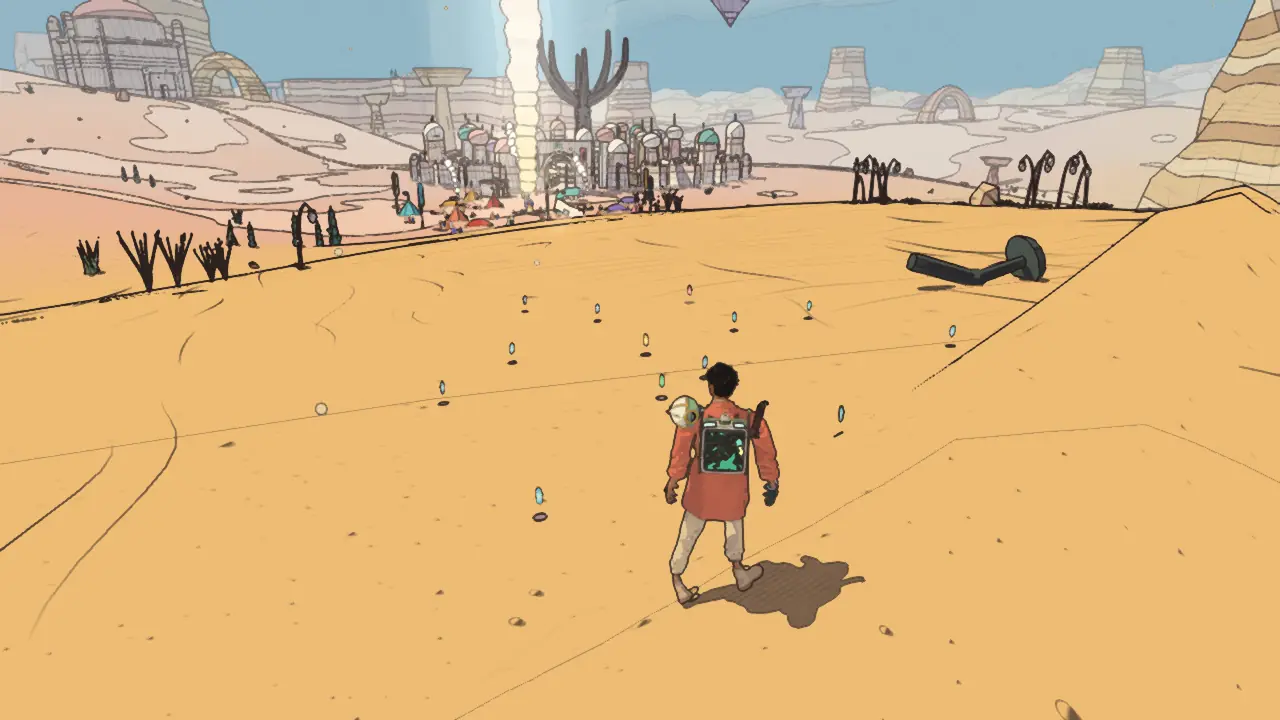
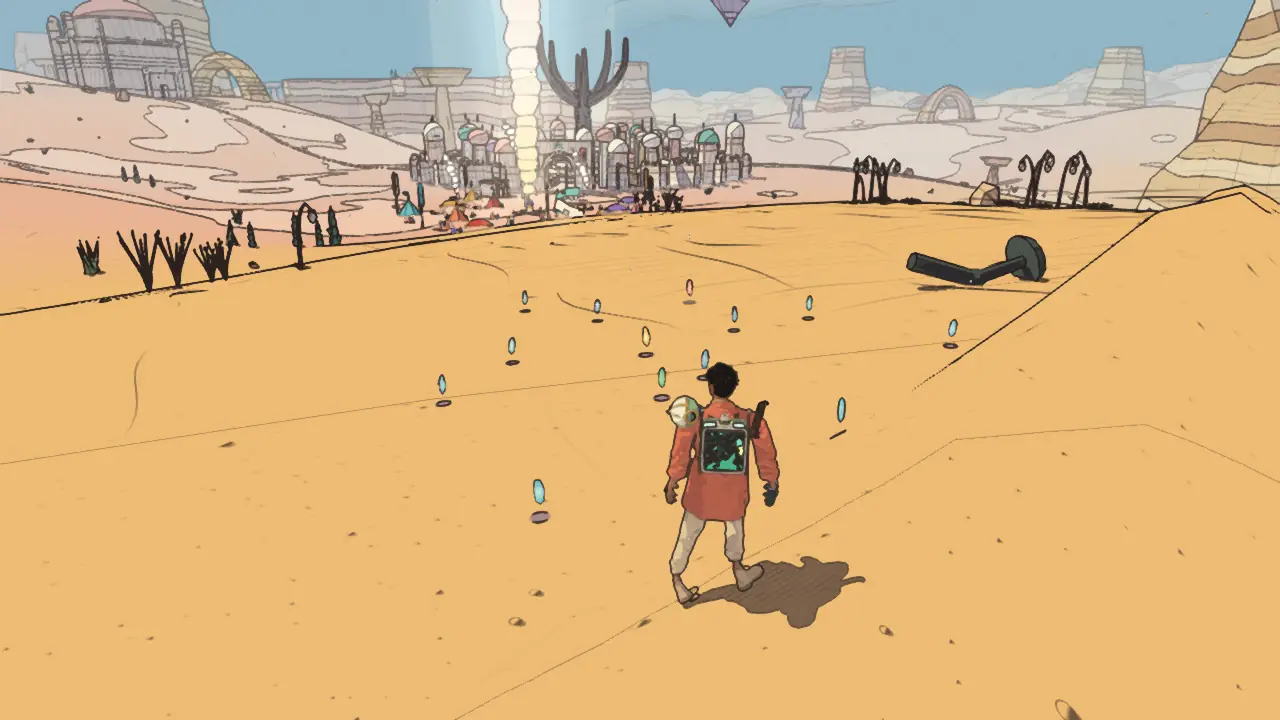
v1.11 changelog pictures: the sword between cuts retaken without the tongue (only the bead in the cup), the chime afters retaken knee-high (field, close, pull, the six worths, the reference side by side)

diff --git a/src/changelog-media.js b/src/changelog-media.js
@@ -476,17 +476,17 @@ export const CHANGELOG_MEDIA = {
     ], see: 'Go aboard your ship and stand at the back of the main room, by the lockers: the cockpit straight ahead, the galley on the left, the holo table and its curved console in the middle, the bunk’s arched alcove on the right. Debug → Cinematics → Recording 1 plays a recording at the console’s end.' },
     // the chimes, redrawn
     { match: 'Chimes have a new look: each is a long, blunt crystal', shots: [
-      { name: 'chimes-look-field', caption: 'A scatter of chimes on the desert’s sand from behind the traveller, at play distance: before, 27.5 cm shards leaning well over, the drops of five and more as ones and pale clusters, a dark smudge under each; after, smaller crystals floating upright, lower, each over a small lavender shadow, a jade five, an amber ten and a coral twenty among the cyan ones', commit: '36ec0024',
+      { name: 'chimes-look-field', caption: 'A scatter of chimes on the desert’s sand from behind the traveller, at play distance: before, 27.5 cm shards leaning well over, the drops of five and more as ones and pale clusters, a dark smudge under each; after, knee-high crystals (a one 30 cm long) floating upright, lower, each over a small lavender shadow, a jade five, an amber ten and a coral twenty among the cyan ones', commit: '612e9602', before: '87f6f105',
         view: { level: 'desert', player: CHIME_P, heading: CHIME_H, eye: chimeEye(4.6, 3.3, 0.9), target: CHIME_TGT(7.5, -0.6), fov: 50, save: SAVE_ON, wait: 2500, setup: CHIME_SAND(CHIME_FIELD_DROPS) } },
-      { name: 'chimes-look-close', caption: 'Three ones close up: before, broad leaning six-sided shards with chisel ends, high over a brown smudge; after, the reference’s long blunt crystal, broad uneven facets, a flat little cap, a blunt point, the lavender seam and the warm heart, upright and lower over a small lavender shadow', commit: '36ec0024',
+      { name: 'chimes-look-close', caption: 'Three ones close up: before, broad leaning six-sided shards with chisel ends, high over a brown smudge; after, the reference’s long blunt crystal, broad uneven facets, a flat little cap, a blunt point, the lavender seam and the warm heart, upright and lower over a small lavender shadow', commit: '612e9602', before: '87f6f105',
         view: { level: 'desert', player: chimeAway, heading: CHIME_H, save: SAVE_ON, wait: 2500, setup: CHIME_SAND([[...chimeAt(4, 0), 3]], CHIME_ROW(4.2, -0.32, 1.25, 0.14)) } },
-      { name: 'chimes-look-pull', caption: 'The nearest drawn in (held mid-flight): before, it shoots straight in, spinning fast; after, it drifts in on a curve, glowing, a trail of little lights behind it', commit: '36ec0024',
+      { name: 'chimes-look-pull', caption: 'The nearest drawn in (held mid-flight): before, it shoots straight in, spinning fast; after, it drifts in on a curve, glowing, a trail of little lights behind it', commit: '612e9602', before: '87f6f105',
         view: { level: 'desert', player: CHIME_P, heading: CHIME_H, eye: chimeEye(2.6, 1.9, 1.4), target: CHIME_TGT(1.6, 0.5), fov: 50, save: SAVE_ON, wait: 300,
           setup: CHIME_SAND([[...chimeAt(4.5, 1.5), 1], [...chimeAt(5.5, -1), 1]], `await wait(2500); { const p = chimes.list[0], [x, z] = ${JSON.stringify(chimeAt(1.3, 1.0))}; p.to.set(x, physics.groundAt(x, 60, z, 120), z); }
             await wait(300); who = player.pos; const t0 = performance.now();
             while (!chimes.list.some((q) => q.phase === 'pull' && q.pos.distanceTo(q.to.clone().setY(q.to.y + q.lift)) > 0.4) && performance.now() - t0 < 3000) await wait(2);
             frozen = true;`) } },
-      { name: 'chimes-look-reference', only: 'after', caption: 'The author’s pick (left, references/Core Objects/Currency/Floating Chime/field/sheet-1.jpg) beside the game after the change (right), from behind the traveller at play distance: the same upright crystals over small lavender shadows, a few of other worths among them, at the smaller size the author asked for (the picture draws them about as long as a leg)', from: 'the reference picture and the after picture of chimes-look-field, side by side (ImageMagick), 9 October' },
+      { name: 'chimes-look-reference', only: 'after', caption: 'The author’s pick (left, references/Core Objects/Currency/Floating Chime/field/sheet-1.jpg) beside the game after the change (right), from behind the traveller at play distance: the same upright crystals over small lavender shadows, a few of other worths among them, knee-high, as the author asked (a one 30 cm long, its top at the traveller’s knee)', from: 'the reference picture and the after picture of chimes-look-field, side by side (ImageMagick), 9 October' },
     ], numbers: [
       { title: 'Draw calls a field of chimes adds to a frame (thirty on the desert’s sand)', unit: 'draws', better: 'lower', device: 'MacBook (Apple GPU), headless Chrome, High, 1280 × 720 (each chime mesh counted as it is drawn, every pass)',
         rows: [{ where: 'the G-buffer pass (instanced)', before: 4, after: 3 }, { where: 'the shadow passes', before: 0, after: 0 }],
@@ -497,7 +497,7 @@ export const CHANGELOG_MEDIA = {
     ], see: 'Cut down a few foes on the desert’s sand and walk toward their chimes: they float upright over small lavender shadows; come within a couple of steps and the nearest curves in to you, glowing, with a trail of light.' },
     { match: 'Chimes now come in six worths', shots: [
       { name: 'chimes-tiers', only: 'after', caption: 'The six worths side by side on the sand: cyan 1, jade 5, amber 10, coral 20, violet 50 and pearl 100, each the same crystal, larger and brighter the more it is worth', from: FROM_CHIME_LOOK,
-        view: { level: 'desert', player: chimeAway, heading: CHIME_H, save: SAVE_ON, wait: 2500, setup: CHIME_SAND([1, 5, 10, 20, 50, 100].map((n) => [...chimeAt(4, 0), n]), CHIME_ROW(4.2, -0.36, 2.3, 0.3)) }, commit: '36ec0024' },
+        view: { level: 'desert', player: chimeAway, heading: CHIME_H, save: SAVE_ON, wait: 2500, setup: CHIME_SAND([1, 5, 10, 20, 50, 100].map((n) => [...chimeAt(4, 0), n]), CHIME_ROW(4.2, -0.36, 2.3, 0.3)) }, commit: '612e9602', before: '87f6f105' },
     ], see: 'In the Arena, call a guardian into the ring and calm it: its purse falls as two coral twenties. A foe that leaves eight chimes drops a jade five and three cyan ones; pick up a big one and it rings with more notes.' },
     // the roster painted as on its sheets (src/foe-surface.js): each archetype before and after its surface, the sheet beside it
     { match: 'The foes of the new roster are painted', shots: [
@@ -532,7 +532,7 @@ export const CHANGELOG_MEDIA = {
     ], see: 'On the title, choose Debug (or press L in a world). Type a few letters to filter; on a controller LB / RB jump between sections and Y opens the filter. Open a page and come back with ◀ Debug: the page you opened has the focus.' },
     // the fluid sword, alive
     { match: 'The fluid sword feels alive', shots: [
-      { name: 'blade-alive-idle', caption: 'In the fist between cuts, close up: before and after, nothing stands out of the cup (the blade only shows through a swing), only the bead in it, which now breathes', ...ALIVE,
+      { name: 'blade-alive-idle', caption: 'In the fist between cuts, close up: before and after, nothing stands out of the cup (the blade only shows through a swing), only the bead in it, which now breathes', ...ALIVE, commit: '7d7c5917',
         view: { ...ARENA_BLADE, setup: BLADE_CLOSE(SWING_AT(1500), { dist: 0.5, at: 0.05 }) } },
       { name: 'blade-alive-swing', caption: 'The first swing on its cut, close up: before, flat currents inked in black; after, the fluid bowed back by the swing, fine pale ripples and bubbles drifting up it, a bright line along the cutting edge and its skin wobbling', ...ALIVE,
         view: { ...ARENA_BLADE, setup: BLADE_CLOSE(SWING_AT(250), { dist: 0.85 }) } },
